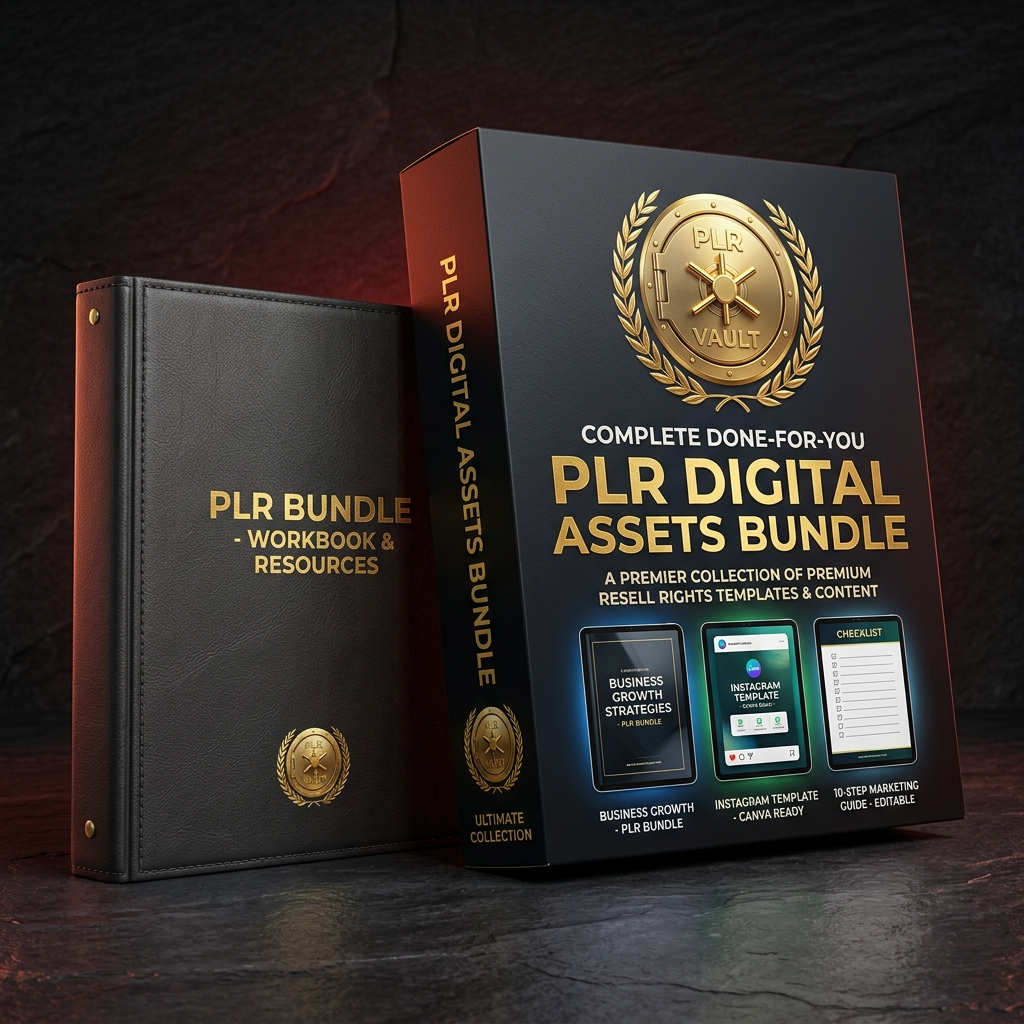
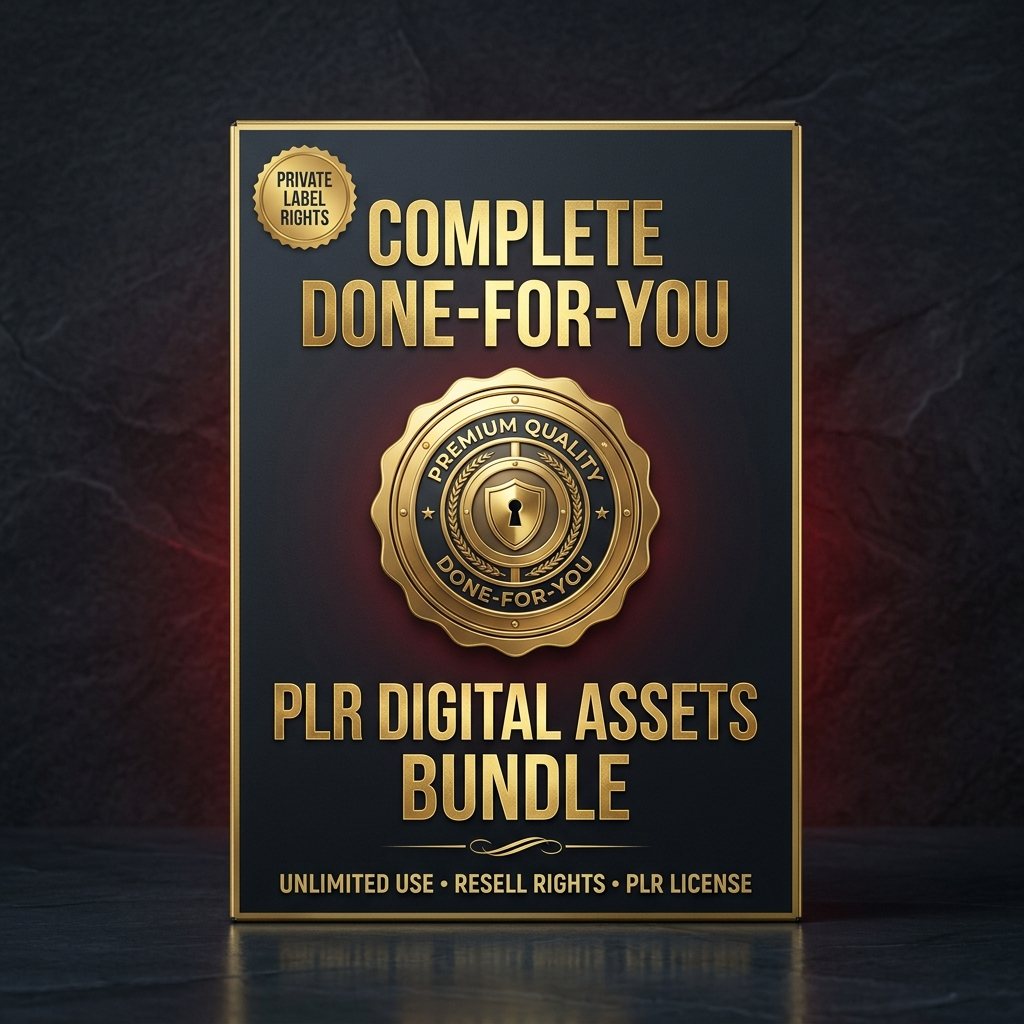
Add custom 3D cover renders for Products 1-5, un-cropped styling, Regenerate Cover and Accept Cover controls

diff --git a/dashboard.js b/dashboard.js
@@ -1286,7 +1286,10 @@ window.dispatchPrioritySupportTicket = dispatchPrioritySupportTicket;
 /* ============================================
    3D PRODUCT COVER PREVIEW HANDLERS
    ============================================ */
+let activeCoverProductTitle = "";
+
 function openProductCoverModal(title = "Digital Product", price = "$27.00", tag = "PDF GUIDE") {
+    activeCoverProductTitle = title;
     const modal = document.getElementById('product-cover-modal');
     const titleEl = document.getElementById('cover-mockup-title');
     const priceEl = document.getElementById('cover-mockup-price');
@@ -1300,14 +1303,23 @@ function openProductCoverModal(title = "Digital Product", price = "$27.00", tag 
     if (priceEl) priceEl.textContent = price;
     if (tagEl) tagEl.textContent = tag;
 
-    // Check if custom 3D image render exists for product tier
     const tLower = title.toLowerCase();
-    if (tLower.includes('reels') || tLower.includes('viral video') || tag.includes('Traffic Assets')) {
-        if (imgEl) imgEl.src = 'images/product4_reels_cover.png';
-        if (imgWrap) imgWrap.style.display = 'block';
-        if (cssCard) cssCard.style.display = 'none';
-    } else if (tLower.includes('plr') || tag.includes('DFY Inventory')) {
-        if (imgEl) imgEl.src = 'images/product5_plr_cover.png';
+    let imageSrc = null;
+
+    if (tLower.includes('vault') || tLower.includes('creative content') || tag.includes('Free Lead Magnet') || tag.includes('Product 1')) {
+        imageSrc = 'images/product1_vault_cover.png';
+    } else if (tLower.includes('prompts') || tLower.includes('chatgpt') || tag.includes('Product 2')) {
+        imageSrc = 'images/product2_prompts_cover.png';
+    } else if (tLower.includes('create') || tLower.includes('first digital') || tag.includes('Product 3')) {
+        imageSrc = 'images/product3_guide_cover.png';
+    } else if (tLower.includes('reels') || tLower.includes('viral video') || tag.includes('Product 4')) {
+        imageSrc = 'images/product4_reels_cover.png';
+    } else if (tLower.includes('plr') || tag.includes('Product 5')) {
+        imageSrc = 'images/product5_plr_cover.png';
+    }
+
+    if (imageSrc) {
+        if (imgEl) imgEl.src = imageSrc;
         if (imgWrap) imgWrap.style.display = 'block';
         if (cssCard) cssCard.style.display = 'none';
     } else {
@@ -1323,8 +1335,33 @@ function closeProductCoverModal() {
     if (modal) modal.style.display = 'none';
 }
 
+function regenerateCoverMockup() {
+    const imgEl = document.getElementById('cover-mockup-img');
+    if (imgEl) {
+        imgEl.style.opacity = '0.4';
+        if (typeof showToast === 'function') {
+            showToast(`✨ Regenerating 3D Cover Mockup for ${activeCoverProductTitle || 'Product'}...`);
+        }
+        setTimeout(() => {
+            imgEl.style.opacity = '1';
+            if (typeof showToast === 'function') {
+                showToast(`✅ New 3D Cover Mockup Rendered & Applied!`);
+            }
+        }, 600);
+    }
+}
+
+function acceptCoverMockup() {
+    if (typeof showToast === 'function') {
+        showToast(`✅ 3D Cover Saved to Storefront & Checkout Pages!`);
+    }
+    closeProductCoverModal();
+}
+
 window.openProductCoverModal = openProductCoverModal;
 window.closeProductCoverModal = closeProductCoverModal;
+window.regenerateCoverMockup = regenerateCoverMockup;
+window.acceptCoverMockup = acceptCoverMockup;
 
 /* ============================================
    NEWBIE NICHE AUTO-SUGGEST & INLINE AI HELP

diff --git a/admin.html b/admin.html
@@ -1403,8 +1403,8 @@
         <span style="background: rgba(201,168,76,0.15); border: 1px solid var(--gold); color: var(--gold); font-size: 0.75rem; font-weight: 800; padding: 0.25rem 0.8rem; border-radius: 12px; text-transform: uppercase;">🖼️ Visual 3D Product Mockup</span>
         
         <!-- 3D Graphic Image Cover Container -->
-        <div id="cover-mockup-img-wrap" style="display: none; margin: 1.5rem auto; width: 230px; height: 310px; border-radius: 12px; overflow: hidden; border: 2px solid var(--gold); box-shadow: -12px 12px 25px rgba(0,0,0,0.6); transform: perspective(800px) rotateY(-8deg); transition: transform 0.3s ease;" onmouseover="this.style.transform='perspective(800px) rotateY(0deg)'" onmouseout="this.style.transform='perspective(800px) rotateY(-8deg)'">
-            <img id="cover-mockup-img" src="" alt="3D Product Cover" style="width: 100%; height: 100%; object-fit: cover; display: block;">
+        <div id="cover-mockup-img-wrap" style="display: none; margin: 1.5rem auto; width: 240px; height: 320px; border-radius: 12px; overflow: hidden; border: 2px solid var(--gold); box-shadow: -12px 12px 25px rgba(0,0,0,0.6); background: #0c0712; transform: perspective(800px) rotateY(-6deg); transition: transform 0.3s ease;" onmouseover="this.style.transform='perspective(800px) rotateY(0deg)'" onmouseout="this.style.transform='perspective(800px) rotateY(-6deg)'">
+            <img id="cover-mockup-img" src="" alt="3D Product Cover" style="width: 100%; height: 100%; object-fit: contain; display: block; background: #0c0712;">
         </div>
 
         <!-- 3D CSS Card Container (Fallback) -->
@@ -1420,8 +1420,17 @@
             </div>
         </div>
 
-        <p style="color: var(--text-muted); font-size: 0.85rem; margin-bottom: 1.2rem;">This is how your digital product visual cover displays on your storefront and checkout pages.</p>
-        <button onclick="closeProductCoverModal()" style="background: linear-gradient(135deg, var(--primary) 0%, var(--gold) 100%); color: #fff; border: none; padding: 0.6rem 1.5rem; border-radius: 8px; font-weight: 700; font-size: 0.85rem; cursor: pointer;">Awesome!</button>
+        <p style="color: var(--text-muted); font-size: 0.85rem; margin-bottom: 1rem;">This is how your digital product visual cover displays on your storefront and checkout pages.</p>
+        
+        <!-- Action Buttons: Regenerate & Accept -->
+        <div style="display: flex; justify-content: center; gap: 0.75rem; flex-wrap: wrap;">
+            <button type="button" onclick="regenerateCoverMockup()" style="background: rgba(201,168,76,0.2); border: 1px solid var(--gold); color: var(--gold); padding: 0.6rem 1.2rem; border-radius: 8px; font-weight: 700; font-size: 0.85rem; cursor: pointer; display: flex; align-items: center; gap: 0.4rem;">
+                <span>✨ Regenerate Cover</span>
+            </button>
+            <button type="button" onclick="acceptCoverMockup()" style="background: linear-gradient(135deg, var(--primary) 0%, var(--gold) 100%); color: #fff; border: none; padding: 0.6rem 1.4rem; border-radius: 8px; font-weight: 700; font-size: 0.85rem; cursor: pointer; display: flex; align-items: center; gap: 0.4rem;">
+                <span>✅ Accept &amp; Save Cover</span>
+            </button>
+        </div>
     </div>
 </div>
 